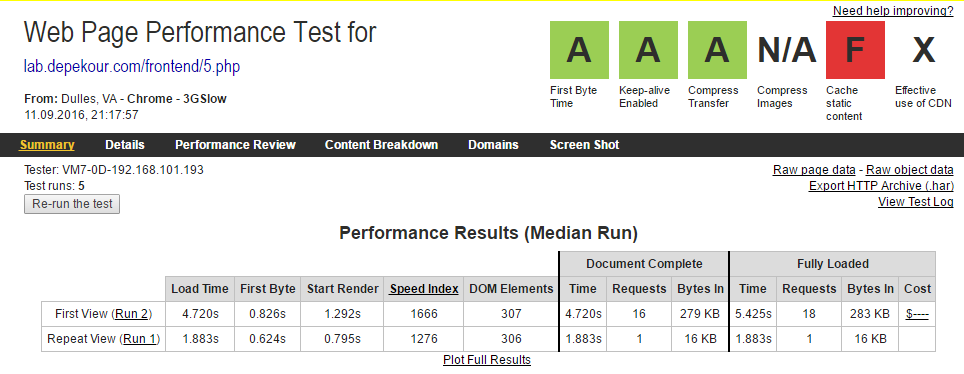
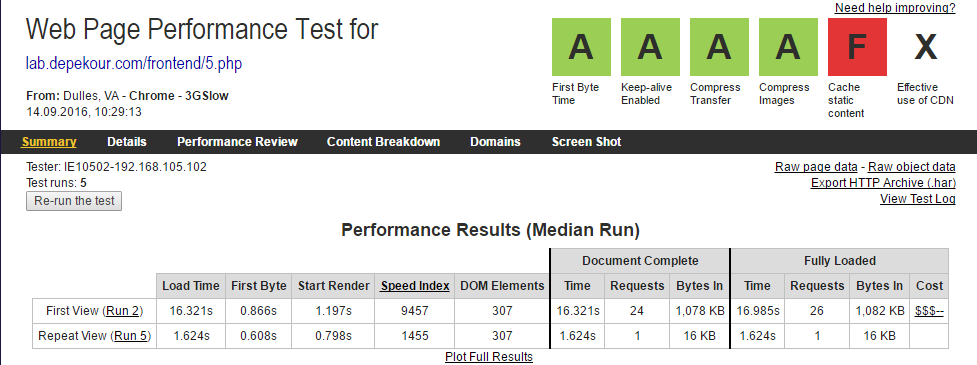
+

diff --git a/5.php b/5.php
@@ -27,63 +27,6 @@
 			var js = true,
 				 css = true;
 
-			var jsLinks = [
-				'https://ajax.googleapis.com/ajax/libs/jquery/2.2.2/jquery.min.js',
-				'http://cdn.jsdelivr.net/theaterjs/latest/theater.min.js',
-				'https://cdnjs.cloudflare.com/ajax/libs/materialize/0.97.7/js/materialize.min.js',
-				'js/three.min.js',
-				'js/lazyLoad.js'
-			]; 
-
-			var cssLinks = [
-				'css/parts/reset.css',
-				'css/min/style_2.min.css',
-				'css/parts/laptop.css',
-				'css/parts/mobile.css',
-				'css/parts/slick.css',
-				'css/parts/tablet.css',
-				'css/parts/retina.css',
-				'css/parts/comments.css',
-				'css/parts/sidebar.css',
-			];
-
-			var result = '';
-
-			if (css) {
-				for (var i = 0; i < cssLinks.length; i++) {
-					result += '<link href="' + cssLinks[i] + '" rel="stylesheet">';
-				}
-			} 
-
-			document.body.insertAdjacentHTML('beforeend', result);
-
-			if (js) {
-				for (var i = 0; i < jsLinks.length; i++) {
-					var script = document.createElement('script');
-					script.src = jsLinks[i];
-
-					if (script.src == 'js/lazyLoad.js') {
-						script.onload = function() {
-							lazyImg();
-						}
-					}
-
-					document.body.appendChild(script);					
-
-					//result += '<script src="' + jsLinks[i] + '"><\/script>';
-				}
-			}
-		}
-
-
-		document.addEventListener("DOMContentLoaded", printFiles);		
-	</script>
-
-		<script>
-		function printFiles() {
-			var js = true,
-				 css = true;
-
 			var jsFiles = [
 				'https://ajax.googleapis.com/ajax/libs/jquery/2.2.2/jquery.min.js',
 				'http://cdn.jsdelivr.net/theaterjs/latest/theater.min.js',
